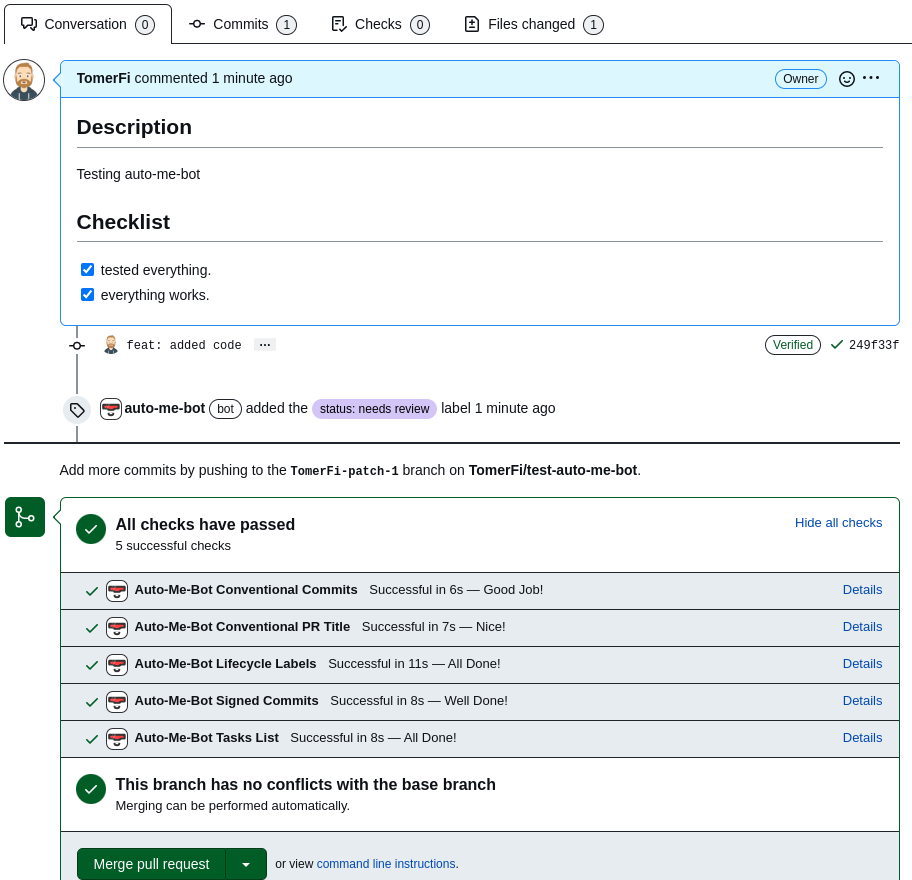
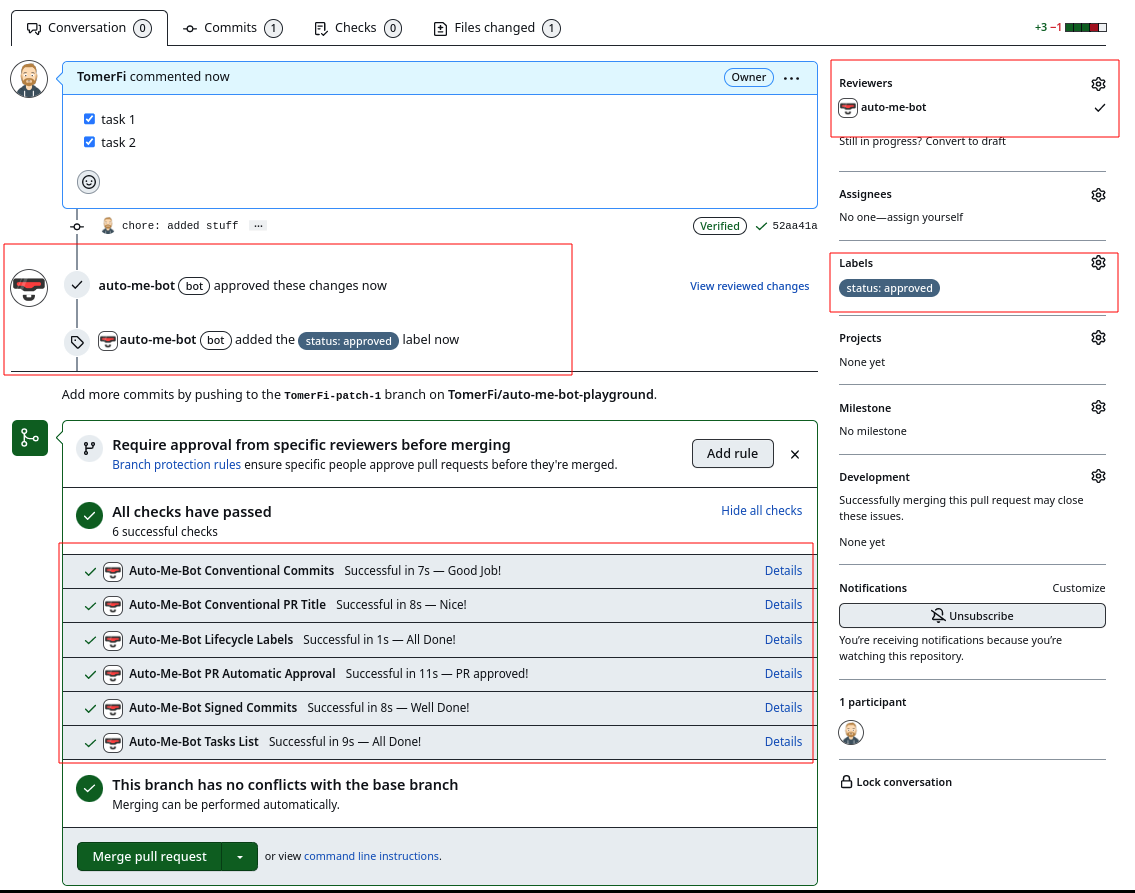
docs: deployed to gh-pages for refs/tags/1.5.1

diff --git a/index.html b/index.html
@@ -688,6 +688,9 @@ and select the repos you want me to keep an eye out for.</br></p>
 If I can't find my configuration file in the repo I'm working with, I'll look for it in your <em>.github</em> repo.</p>
 <div class="highlight"><span class="filename">.github/auto-me-bot.yml</span><pre><span></span><code><span class="nn">---</span>
 <span class="nt">pr</span><span class="p">:</span>
+<span class="w">  </span><span class="nt">autoApprove</span><span class="p">:</span><span class="w"> </span><span class="c1"># (13)</span>
+<span class="w">    </span><span class="nt">allBots</span><span class="p">:</span><span class="w"> </span><span class="l l-Scalar l-Scalar-Plain">false</span>
+<span class="w">    </span><span class="nt">users</span><span class="p">:</span><span class="w"> </span><span class="p p-Indicator">[</span><span class="s">&quot;dependabot&quot;</span><span class="p p-Indicator">]</span>
 <span class="w">  </span><span class="nt">conventionalCommits</span><span class="p">:</span><span class="w"> </span><span class="c1"># (1)</span>
 <span class="w">    </span><span class="nt">rules</span><span class="p">:</span><span class="w"> </span><span class="c1"># (2)</span>
 <span class="w">  </span><span class="nt">conventionalTitle</span><span class="p">:</span><span class="w"> </span><span class="c1"># (11)</span>
@@ -720,6 +723,7 @@ If I can't find my configuration file in the repo I'm working with, I'll look fo
 <li>you don't have to specify all of the lifecycle's stages, just the ones you want.<br/>and I don't create the labels yet, so you'll have to create them.</li>
 <li>this means I'll enforce conventional titles for PRs.</li>
 <li>you can optionally configure some rules for me.<br/><a href="https://commitlint.js.org/#/reference-rules">see commitlint options</a></li>
+<li>you can tell about users or bots you trust, and I'll automatically approve their PRs.</li>
 </ol>
 <h2 id="look-see">Look-See<a class="headerlink" href="#look-see" title="Permanent link">⚓</a></h2>
 <figure>
@@ -731,6 +735,16 @@ If I can't find my configuration file in the repo I'm working with, I'll look fo
 <p><img alt="" src="https://raw.githubusercontent.com/TomerFi/auto-me-bot/main/docs/img/all-handlers-fail.png" width="800" />
   </p>
 <figcaption>all handlers failed</figcaption>
+</figure>
+<figure>
+<p><img alt="" src="https://raw.githubusercontent.com/TomerFi/auto-me-bot/main/docs/img/auto-approve-approved.png" width="800" />
+  </p>
+<figcaption>auto approved pr - approved</figcaption>
+</figure>
+<figure>
+<p><img alt="" src="https://raw.githubusercontent.com/TomerFi/auto-me-bot/main/docs/img/auto-approve-neutral.gif" width="800" />
+  </p>
+<figcaption>auto approved pr - not approved</figcaption>
 </figure>
 <figure>
 <p><img alt="" src="https://raw.githubusercontent.com/TomerFi/auto-me-bot/main/docs/img/conventional-commits-success.png" width="800" />
@@ -931,7 +945,7 @@ OR IN CONNECTION WITH THE USE OR PERFORMANCE OF THIS SOFTWARE.</p>
       <div class="md-dialog__inner md-typeset"></div>
     </div>
     
-    <script id="__config" type="application/json">{"base": ".", "features": ["content.code.annotate", "header.autohide", "navigation.indexes", "navigation.tabs", "navigation.tabs.sticky", "navigation.top", "navigation.tracking", "search.highlight", "search.share", "search.suggest", "toc.integrate"], "search": "assets/javascripts/workers/search.208ed371.min.js", "translations": {"clipboard.copied": "Copied to clipboard", "clipboard.copy": "Copy to clipboard", "search.result.more.one": "1 more on this page", "search.result.more.other": "# more on this page", "search.result.none": "No matching documents", "search.result.one": "1 matching document", "search.result.other": "# matching documents", "search.result.placeholder": "Type to start searching", "search.result.term.missing": "Missing", "select.version": "Select version"}, "version": "1.5.0"}</script>
+    <script id="__config" type="application/json">{"base": ".", "features": ["content.code.annotate", "header.autohide", "navigation.indexes", "navigation.tabs", "navigation.tabs.sticky", "navigation.top", "navigation.tracking", "search.highlight", "search.share", "search.suggest", "toc.integrate"], "search": "assets/javascripts/workers/search.208ed371.min.js", "translations": {"clipboard.copied": "Copied to clipboard", "clipboard.copy": "Copy to clipboard", "search.result.more.one": "1 more on this page", "search.result.more.other": "# more on this page", "search.result.none": "No matching documents", "search.result.one": "1 matching document", "search.result.other": "# matching documents", "search.result.placeholder": "Type to start searching", "search.result.term.missing": "Missing", "select.version": "Select version"}, "version": "1.5.1"}</script>
     
     
       <script src="assets/javascripts/bundle.51198bba.min.js"></script>

diff --git a/configuration/index.html b/configuration/index.html
@@ -577,6 +577,9 @@
 If I can't find my configuration file in the repo I'm working with, I'll look for it in your <em>.github</em> repo.</p>
 <div class="highlight"><span class="filename">.github/auto-me-bot.yml</span><pre><span></span><code><span class="nn">---</span>
 <span class="nt">pr</span><span class="p">:</span>
+<span class="w">  </span><span class="nt">autoApprove</span><span class="p">:</span><span class="w"> </span><span class="c1"># (13)</span>
+<span class="w">    </span><span class="nt">allBots</span><span class="p">:</span><span class="w"> </span><span class="l l-Scalar l-Scalar-Plain">false</span>
+<span class="w">    </span><span class="nt">users</span><span class="p">:</span><span class="w"> </span><span class="p p-Indicator">[</span><span class="s">&quot;dependabot&quot;</span><span class="p p-Indicator">]</span>
 <span class="w">  </span><span class="nt">conventionalCommits</span><span class="p">:</span><span class="w"> </span><span class="c1"># (1)</span>
 <span class="w">    </span><span class="nt">rules</span><span class="p">:</span><span class="w"> </span><span class="c1"># (2)</span>
 <span class="w">  </span><span class="nt">conventionalTitle</span><span class="p">:</span><span class="w"> </span><span class="c1"># (11)</span>
@@ -609,6 +612,7 @@ If I can't find my configuration file in the repo I'm working with, I'll look fo
 <li>you don't have to specify all of the lifecycle's stages, just the ones you want.<br/>and I don't create the labels yet, so you'll have to create them.</li>
 <li>this means I'll enforce conventional titles for PRs.</li>
 <li>you can optionally configure some rules for me.<br/><a href="https://commitlint.js.org/#/reference-rules">see commitlint options</a></li>
+<li>you can tell about users or bots you trust, and I'll automatically approve their PRs.</li>
 </ol>
 
   <hr>
@@ -616,7 +620,7 @@ If I can't find my configuration file in the repo I'm working with, I'll look fo
   <small>
     
       Last update:
-      2022-10-15
+      2023-04-11
     
   </small>
 </div>
@@ -712,7 +716,7 @@ If I can't find my configuration file in the repo I'm working with, I'll look fo
       <div class="md-dialog__inner md-typeset"></div>
     </div>
     
-    <script id="__config" type="application/json">{"base": "..", "features": ["content.code.annotate", "header.autohide", "navigation.indexes", "navigation.tabs", "navigation.tabs.sticky", "navigation.top", "navigation.tracking", "search.highlight", "search.share", "search.suggest", "toc.integrate"], "search": "../assets/javascripts/workers/search.208ed371.min.js", "translations": {"clipboard.copied": "Copied to clipboard", "clipboard.copy": "Copy to clipboard", "search.result.more.one": "1 more on this page", "search.result.more.other": "# more on this page", "search.result.none": "No matching documents", "search.result.one": "1 matching document", "search.result.other": "# matching documents", "search.result.placeholder": "Type to start searching", "search.result.term.missing": "Missing", "select.version": "Select version"}, "version": "1.5.0"}</script>
+    <script id="__config" type="application/json">{"base": "..", "features": ["content.code.annotate", "header.autohide", "navigation.indexes", "navigation.tabs", "navigation.tabs.sticky", "navigation.top", "navigation.tracking", "search.highlight", "search.share", "search.suggest", "toc.integrate"], "search": "../assets/javascripts/workers/search.208ed371.min.js", "translations": {"clipboard.copied": "Copied to clipboard", "clipboard.copy": "Copy to clipboard", "search.result.more.one": "1 more on this page", "search.result.more.other": "# more on this page", "search.result.none": "No matching documents", "search.result.one": "1 matching document", "search.result.other": "# matching documents", "search.result.placeholder": "Type to start searching", "search.result.term.missing": "Missing", "select.version": "Select version"}, "version": "1.5.1"}</script>
     
     
       <script src="../assets/javascripts/bundle.51198bba.min.js"></script>

diff --git a/handlers/auto-approve/index.html b/handlers/auto-approve/index.html
@@ -12,20 +12,16 @@
         <meta name="author" content="Tomer Figenblat">
       
       
-        <link rel="canonical" href="https://auto-me-bot.info.tomfi/handlers/signed-commits/">
+        <link rel="canonical" href="https://auto-me-bot.info.tomfi/handlers/auto-approve/">
       
       
-        <link rel="prev" href="../lifecycle-labels/">
-      
-      
-        <link rel="next" href="../tasks-list/">
       
       <link rel="icon" href="../../img/favicon.ico">
       <meta name="generator" content="mkdocs-1.4.2, mkdocs-material-9.1.6">
     
     
       
-        <title>Signed Commits - Auto-Me-Bot</title>
+        <title>Auto approve - Auto-Me-Bot</title>
       
     
     
@@ -122,7 +118,7 @@
         <div class="md-header__topic" data-md-component="header-topic">
           <span class="md-ellipsis">
             
-              Signed Commits
+              Auto approve
             
           </span>
         </div>
@@ -250,15 +246,13 @@
         
   
   
-    
-  
 
 
   
   
   
     <li class="md-tabs__item">
-      <a href="../../look-see/" class="md-tabs__link md-tabs__link--active">
+      <a href="../../look-see/" class="md-tabs__link">
         Look-See
       </a>
     </li>
@@ -391,16 +385,14 @@
 
   
   
-    
-  
   
     
-    <li class="md-nav__item md-nav__item--active md-nav__item--nested">
+    <li class="md-nav__item md-nav__item--nested">
       
       
       
       
-      <input class="md-nav__toggle md-toggle " type="checkbox" id="__nav_4" checked>
+      <input class="md-nav__toggle md-toggle " type="checkbox" id="__nav_4" >
       
       
         
@@ -423,7 +415,7 @@
           <span class="md-nav__icon md-icon"></span>
         </label>
       
-      <nav class="md-nav" data-md-level="1" aria-labelledby="__nav_4_label" aria-expanded="true">
+      <nav class="md-nav" data-md-level="1" aria-labelledby="__nav_4_label" aria-expanded="false">
         <label class="md-nav__title" for="__nav_4">
           <span class="md-nav__icon md-icon"></span>
           Look-See
@@ -490,19 +482,11 @@
               
   
   
-    
   
-  
-    <li class="md-nav__item md-nav__item--active">
-      
-      <input class="md-nav__toggle md-toggle" type="checkbox" id="__toc">
-      
-      
-      
-      <a href="./" class="md-nav__link md-nav__link--active">
+    <li class="md-nav__item">
+      <a href="../signed-commits/" class="md-nav__link">
         Signed Commits
       </a>
-      
     </li>
   
 
@@ -573,17 +557,17 @@
                   
 
 
-  <h1>Signed Commits</h1>
+  <h1>Auto approve</h1>
 
 <figure>
-<p><img alt="" src="https://raw.githubusercontent.com/TomerFi/auto-me-bot/main/docs/img/signed-commits-success.png" width="800" />
+<p><img alt="" src="https://raw.githubusercontent.com/TomerFi/auto-me-bot/main/docs/img/auto-approve-approved.png" width="800" />
   </p>
-<figcaption>signed commits successful</figcaption>
+<figcaption>auto approved pr - approved</figcaption>
 </figure>
 <figure>
-<p><img alt="" src="https://raw.githubusercontent.com/TomerFi/auto-me-bot/main/docs/img/signed-commits-fail.gif" width="800" />
+<p><img alt="" src="https://raw.githubusercontent.com/TomerFi/auto-me-bot/main/docs/img/auto-approve-neutral.gif" width="800" />
   </p>
-<figcaption>signed commits failed</figcaption>
+<figcaption>auto approved pr - not approved</figcaption>
 </figure>
 
   <hr>
@@ -591,7 +575,7 @@
   <small>
     
       Last update:
-      2022-05-02
+      2023-04-11
     
   </small>
 </div>

diff --git a/look-see/index.html b/look-see/index.html
@@ -586,6 +586,16 @@
 <figcaption>all handlers failed</figcaption>
 </figure>
 <figure>
+<p><img alt="" src="https://raw.githubusercontent.com/TomerFi/auto-me-bot/main/docs/img/auto-approve-approved.png" width="800" />
+  </p>
+<figcaption>auto approved pr - approved</figcaption>
+</figure>
+<figure>
+<p><img alt="" src="https://raw.githubusercontent.com/TomerFi/auto-me-bot/main/docs/img/auto-approve-neutral.gif" width="800" />
+  </p>
+<figcaption>auto approved pr - not approved</figcaption>
+</figure>
+<figure>
 <p><img alt="" src="https://raw.githubusercontent.com/TomerFi/auto-me-bot/main/docs/img/conventional-commits-success.png" width="800" />
   </p>
 <figcaption>conventional commits successful</figcaption>
@@ -666,7 +676,7 @@
   <small>
     
       Last update:
-      2022-10-15
+      2023-04-11
     
   </small>
 </div>
@@ -762,7 +772,7 @@
       <div class="md-dialog__inner md-typeset"></div>
     </div>
     
-    <script id="__config" type="application/json">{"base": "..", "features": ["content.code.annotate", "header.autohide", "navigation.indexes", "navigation.tabs", "navigation.tabs.sticky", "navigation.top", "navigation.tracking", "search.highlight", "search.share", "search.suggest", "toc.integrate"], "search": "../assets/javascripts/workers/search.208ed371.min.js", "translations": {"clipboard.copied": "Copied to clipboard", "clipboard.copy": "Copy to clipboard", "search.result.more.one": "1 more on this page", "search.result.more.other": "# more on this page", "search.result.none": "No matching documents", "search.result.one": "1 matching document", "search.result.other": "# matching documents", "search.result.placeholder": "Type to start searching", "search.result.term.missing": "Missing", "select.version": "Select version"}, "version": "1.5.0"}</script>
+    <script id="__config" type="application/json">{"base": "..", "features": ["content.code.annotate", "header.autohide", "navigation.indexes", "navigation.tabs", "navigation.tabs.sticky", "navigation.top", "navigation.tracking", "search.highlight", "search.share", "search.suggest", "toc.integrate"], "search": "../assets/javascripts/workers/search.208ed371.min.js", "translations": {"clipboard.copied": "Copied to clipboard", "clipboard.copy": "Copy to clipboard", "search.result.more.one": "1 more on this page", "search.result.more.other": "# more on this page", "search.result.none": "No matching documents", "search.result.one": "1 matching document", "search.result.other": "# matching documents", "search.result.placeholder": "Type to start searching", "search.result.term.missing": "Missing", "select.version": "Select version"}, "version": "1.5.1"}</script>
     
     
       <script src="../assets/javascripts/bundle.51198bba.min.js"></script>

diff --git a/license/index.html b/license/index.html
@@ -685,7 +685,7 @@ OR IN CONNECTION WITH THE USE OR PERFORMANCE OF THIS SOFTWARE.</p>
       <div class="md-dialog__inner md-typeset"></div>
     </div>
     
-    <script id="__config" type="application/json">{"base": "..", "features": ["content.code.annotate", "header.autohide", "navigation.indexes", "navigation.tabs", "navigation.tabs.sticky", "navigation.top", "navigation.tracking", "search.highlight", "search.share", "search.suggest", "toc.integrate"], "search": "../assets/javascripts/workers/search.208ed371.min.js", "translations": {"clipboard.copied": "Copied to clipboard", "clipboard.copy": "Copy to clipboard", "search.result.more.one": "1 more on this page", "search.result.more.other": "# more on this page", "search.result.none": "No matching documents", "search.result.one": "1 matching document", "search.result.other": "# matching documents", "search.result.placeholder": "Type to start searching", "search.result.term.missing": "Missing", "select.version": "Select version"}, "version": "1.5.0"}</script>
+    <script id="__config" type="application/json">{"base": "..", "features": ["content.code.annotate", "header.autohide", "navigation.indexes", "navigation.tabs", "navigation.tabs.sticky", "navigation.top", "navigation.tracking", "search.highlight", "search.share", "search.suggest", "toc.integrate"], "search": "../assets/javascripts/workers/search.208ed371.min.js", "translations": {"clipboard.copied": "Copied to clipboard", "clipboard.copy": "Copy to clipboard", "search.result.more.one": "1 more on this page", "search.result.more.other": "# more on this page", "search.result.none": "No matching documents", "search.result.one": "1 matching document", "search.result.other": "# matching documents", "search.result.placeholder": "Type to start searching", "search.result.term.missing": "Missing", "select.version": "Select version"}, "version": "1.5.1"}</script>
     
     
       <script src="../assets/javascripts/bundle.51198bba.min.js"></script>

diff --git a/installation/index.html b/installation/index.html
@@ -720,7 +720,7 @@ and select the repos you want me to keep an eye out for.</br></p>
       <div class="md-dialog__inner md-typeset"></div>
     </div>
     
-    <script id="__config" type="application/json">{"base": "..", "features": ["content.code.annotate", "header.autohide", "navigation.indexes", "navigation.tabs", "navigation.tabs.sticky", "navigation.top", "navigation.tracking", "search.highlight", "search.share", "search.suggest", "toc.integrate"], "search": "../assets/javascripts/workers/search.208ed371.min.js", "translations": {"clipboard.copied": "Copied to clipboard", "clipboard.copy": "Copy to clipboard", "search.result.more.one": "1 more on this page", "search.result.more.other": "# more on this page", "search.result.none": "No matching documents", "search.result.one": "1 matching document", "search.result.other": "# matching documents", "search.result.placeholder": "Type to start searching", "search.result.term.missing": "Missing", "select.version": "Select version"}, "version": "1.5.0"}</script>
+    <script id="__config" type="application/json">{"base": "..", "features": ["content.code.annotate", "header.autohide", "navigation.indexes", "navigation.tabs", "navigation.tabs.sticky", "navigation.top", "navigation.tracking", "search.highlight", "search.share", "search.suggest", "toc.integrate"], "search": "../assets/javascripts/workers/search.208ed371.min.js", "translations": {"clipboard.copied": "Copied to clipboard", "clipboard.copy": "Copy to clipboard", "search.result.more.one": "1 more on this page", "search.result.more.other": "# more on this page", "search.result.none": "No matching documents", "search.result.one": "1 matching document", "search.result.other": "# matching documents", "search.result.placeholder": "Type to start searching", "search.result.term.missing": "Missing", "select.version": "Select version"}, "version": "1.5.1"}</script>
     
     
       <script src="../assets/javascripts/bundle.51198bba.min.js"></script>

diff --git a/handlers/conventional-commits/index.html b/handlers/conventional-commits/index.html
@@ -687,7 +687,7 @@
       <div class="md-dialog__inner md-typeset"></div>
     </div>
     
-    <script id="__config" type="application/json">{"base": "../..", "features": ["content.code.annotate", "header.autohide", "navigation.indexes", "navigation.tabs", "navigation.tabs.sticky", "navigation.top", "navigation.tracking", "search.highlight", "search.share", "search.suggest", "toc.integrate"], "search": "../../assets/javascripts/workers/search.208ed371.min.js", "translations": {"clipboard.copied": "Copied to clipboard", "clipboard.copy": "Copy to clipboard", "search.result.more.one": "1 more on this page", "search.result.more.other": "# more on this page", "search.result.none": "No matching documents", "search.result.one": "1 matching document", "search.result.other": "# matching documents", "search.result.placeholder": "Type to start searching", "search.result.term.missing": "Missing", "select.version": "Select version"}, "version": "1.5.0"}</script>
+    <script id="__config" type="application/json">{"base": "../..", "features": ["content.code.annotate", "header.autohide", "navigation.indexes", "navigation.tabs", "navigation.tabs.sticky", "navigation.top", "navigation.tracking", "search.highlight", "search.share", "search.suggest", "toc.integrate"], "search": "../../assets/javascripts/workers/search.208ed371.min.js", "translations": {"clipboard.copied": "Copied to clipboard", "clipboard.copy": "Copy to clipboard", "search.result.more.one": "1 more on this page", "search.result.more.other": "# more on this page", "search.result.none": "No matching documents", "search.result.one": "1 matching document", "search.result.other": "# matching documents", "search.result.placeholder": "Type to start searching", "search.result.term.missing": "Missing", "select.version": "Select version"}, "version": "1.5.1"}</script>
     
     
       <script src="../../assets/javascripts/bundle.51198bba.min.js"></script>

diff --git a/handlers/conventional-title/index.html b/handlers/conventional-title/index.html
@@ -682,7 +682,7 @@
       <div class="md-dialog__inner md-typeset"></div>
     </div>
     
-    <script id="__config" type="application/json">{"base": "../..", "features": ["content.code.annotate", "header.autohide", "navigation.indexes", "navigation.tabs", "navigation.tabs.sticky", "navigation.top", "navigation.tracking", "search.highlight", "search.share", "search.suggest", "toc.integrate"], "search": "../../assets/javascripts/workers/search.208ed371.min.js", "translations": {"clipboard.copied": "Copied to clipboard", "clipboard.copy": "Copy to clipboard", "search.result.more.one": "1 more on this page", "search.result.more.other": "# more on this page", "search.result.none": "No matching documents", "search.result.one": "1 matching document", "search.result.other": "# matching documents", "search.result.placeholder": "Type to start searching", "search.result.term.missing": "Missing", "select.version": "Select version"}, "version": "1.5.0"}</script>
+    <script id="__config" type="application/json">{"base": "../..", "features": ["content.code.annotate", "header.autohide", "navigation.indexes", "navigation.tabs", "navigation.tabs.sticky", "navigation.top", "navigation.tracking", "search.highlight", "search.share", "search.suggest", "toc.integrate"], "search": "../../assets/javascripts/workers/search.208ed371.min.js", "translations": {"clipboard.copied": "Copied to clipboard", "clipboard.copy": "Copy to clipboard", "search.result.more.one": "1 more on this page", "search.result.more.other": "# more on this page", "search.result.none": "No matching documents", "search.result.one": "1 matching document", "search.result.other": "# matching documents", "search.result.placeholder": "Type to start searching", "search.result.term.missing": "Missing", "select.version": "Select version"}, "version": "1.5.1"}</script>
     
     
       <script src="../../assets/javascripts/bundle.51198bba.min.js"></script>

diff --git a/handlers/lifecycle-labels/index.html b/handlers/lifecycle-labels/index.html
@@ -712,7 +712,7 @@
       <div class="md-dialog__inner md-typeset"></div>
     </div>
     
-    <script id="__config" type="application/json">{"base": "../..", "features": ["content.code.annotate", "header.autohide", "navigation.indexes", "navigation.tabs", "navigation.tabs.sticky", "navigation.top", "navigation.tracking", "search.highlight", "search.share", "search.suggest", "toc.integrate"], "search": "../../assets/javascripts/workers/search.208ed371.min.js", "translations": {"clipboard.copied": "Copied to clipboard", "clipboard.copy": "Copy to clipboard", "search.result.more.one": "1 more on this page", "search.result.more.other": "# more on this page", "search.result.none": "No matching documents", "search.result.one": "1 matching document", "search.result.other": "# matching documents", "search.result.placeholder": "Type to start searching", "search.result.term.missing": "Missing", "select.version": "Select version"}, "version": "1.5.0"}</script>
+    <script id="__config" type="application/json">{"base": "../..", "features": ["content.code.annotate", "header.autohide", "navigation.indexes", "navigation.tabs", "navigation.tabs.sticky", "navigation.top", "navigation.tracking", "search.highlight", "search.share", "search.suggest", "toc.integrate"], "search": "../../assets/javascripts/workers/search.208ed371.min.js", "translations": {"clipboard.copied": "Copied to clipboard", "clipboard.copy": "Copy to clipboard", "search.result.more.one": "1 more on this page", "search.result.more.other": "# more on this page", "search.result.none": "No matching documents", "search.result.one": "1 matching document", "search.result.other": "# matching documents", "search.result.placeholder": "Type to start searching", "search.result.term.missing": "Missing", "select.version": "Select version"}, "version": "1.5.1"}</script>
     
     
       <script src="../../assets/javascripts/bundle.51198bba.min.js"></script>

diff --git a/handlers/tasks-list/index.html b/handlers/tasks-list/index.html
@@ -692,7 +692,7 @@
       <div class="md-dialog__inner md-typeset"></div>
     </div>
     
-    <script id="__config" type="application/json">{"base": "../..", "features": ["content.code.annotate", "header.autohide", "navigation.indexes", "navigation.tabs", "navigation.tabs.sticky", "navigation.top", "navigation.tracking", "search.highlight", "search.share", "search.suggest", "toc.integrate"], "search": "../../assets/javascripts/workers/search.208ed371.min.js", "translations": {"clipboard.copied": "Copied to clipboard", "clipboard.copy": "Copy to clipboard", "search.result.more.one": "1 more on this page", "search.result.more.other": "# more on this page", "search.result.none": "No matching documents", "search.result.one": "1 matching document", "search.result.other": "# matching documents", "search.result.placeholder": "Type to start searching", "search.result.term.missing": "Missing", "select.version": "Select version"}, "version": "1.5.0"}</script>
+    <script id="__config" type="application/json">{"base": "../..", "features": ["content.code.annotate", "header.autohide", "navigation.indexes", "navigation.tabs", "navigation.tabs.sticky", "navigation.top", "navigation.tracking", "search.highlight", "search.share", "search.suggest", "toc.integrate"], "search": "../../assets/javascripts/workers/search.208ed371.min.js", "translations": {"clipboard.copied": "Copied to clipboard", "clipboard.copy": "Copy to clipboard", "search.result.more.one": "1 more on this page", "search.result.more.other": "# more on this page", "search.result.none": "No matching documents", "search.result.one": "1 matching document", "search.result.other": "# matching documents", "search.result.placeholder": "Type to start searching", "search.result.term.missing": "Missing", "select.version": "Select version"}, "version": "1.5.1"}</script>
     
     
       <script src="../../assets/javascripts/bundle.51198bba.min.js"></script>

diff --git a/spec/index.html b/spec/index.html
@@ -683,7 +683,7 @@
       <div class="md-dialog__inner md-typeset"></div>
     </div>
     
-    <script id="__config" type="application/json">{"base": "..", "features": ["content.code.annotate", "header.autohide", "navigation.indexes", "navigation.tabs", "navigation.tabs.sticky", "navigation.top", "navigation.tracking", "search.highlight", "search.share", "search.suggest", "toc.integrate"], "search": "../assets/javascripts/workers/search.208ed371.min.js", "translations": {"clipboard.copied": "Copied to clipboard", "clipboard.copy": "Copy to clipboard", "search.result.more.one": "1 more on this page", "search.result.more.other": "# more on this page", "search.result.none": "No matching documents", "search.result.one": "1 matching document", "search.result.other": "# matching documents", "search.result.placeholder": "Type to start searching", "search.result.term.missing": "Missing", "select.version": "Select version"}, "version": "1.5.0"}</script>
+    <script id="__config" type="application/json">{"base": "..", "features": ["content.code.annotate", "header.autohide", "navigation.indexes", "navigation.tabs", "navigation.tabs.sticky", "navigation.top", "navigation.tracking", "search.highlight", "search.share", "search.suggest", "toc.integrate"], "search": "../assets/javascripts/workers/search.208ed371.min.js", "translations": {"clipboard.copied": "Copied to clipboard", "clipboard.copy": "Copy to clipboard", "search.result.more.one": "1 more on this page", "search.result.more.other": "# more on this page", "search.result.none": "No matching documents", "search.result.one": "1 matching document", "search.result.other": "# matching documents", "search.result.placeholder": "Type to start searching", "search.result.term.missing": "Missing", "select.version": "Select version"}, "version": "1.5.1"}</script>
     
     
       <script src="../assets/javascripts/bundle.51198bba.min.js"></script>

diff --git a/404.html b/404.html
@@ -638,7 +638,7 @@
       <div class="md-dialog__inner md-typeset"></div>
     </div>
     
-    <script id="__config" type="application/json">{"base": "/", "features": ["content.code.annotate", "header.autohide", "navigation.indexes", "navigation.tabs", "navigation.tabs.sticky", "navigation.top", "navigation.tracking", "search.highlight", "search.share", "search.suggest", "toc.integrate"], "search": "/assets/javascripts/workers/search.208ed371.min.js", "translations": {"clipboard.copied": "Copied to clipboard", "clipboard.copy": "Copy to clipboard", "search.result.more.one": "1 more on this page", "search.result.more.other": "# more on this page", "search.result.none": "No matching documents", "search.result.one": "1 matching document", "search.result.other": "# matching documents", "search.result.placeholder": "Type to start searching", "search.result.term.missing": "Missing", "select.version": "Select version"}, "version": "1.5.0"}</script>
+    <script id="__config" type="application/json">{"base": "/", "features": ["content.code.annotate", "header.autohide", "navigation.indexes", "navigation.tabs", "navigation.tabs.sticky", "navigation.top", "navigation.tracking", "search.highlight", "search.share", "search.suggest", "toc.integrate"], "search": "/assets/javascripts/workers/search.208ed371.min.js", "translations": {"clipboard.copied": "Copied to clipboard", "clipboard.copy": "Copy to clipboard", "search.result.more.one": "1 more on this page", "search.result.more.other": "# more on this page", "search.result.none": "No matching documents", "search.result.one": "1 matching document", "search.result.other": "# matching documents", "search.result.placeholder": "Type to start searching", "search.result.term.missing": "Missing", "select.version": "Select version"}, "version": "1.5.1"}</script>
     
     
       <script src="/assets/javascripts/bundle.51198bba.min.js"></script>
